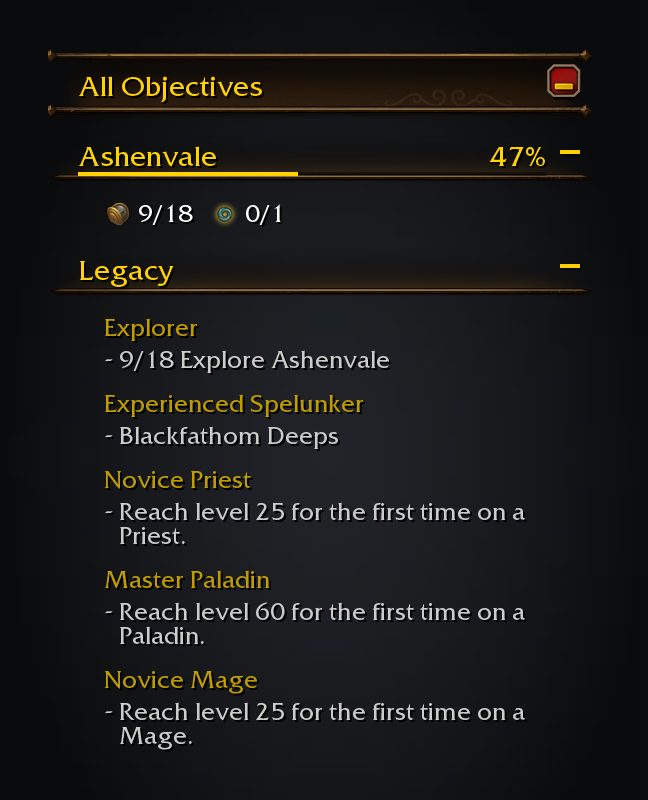
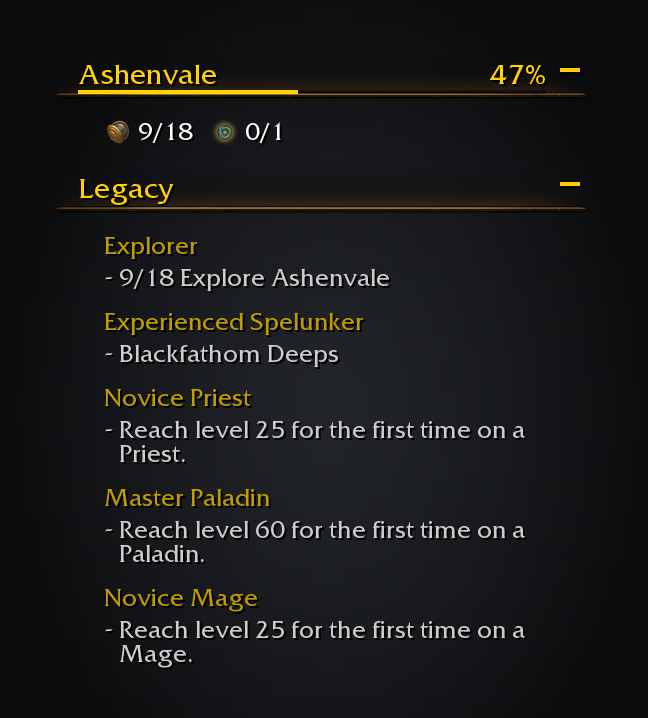
Render the standalone companion tracker in documentation (#62)
Update the tracker screenshot to match the companion frame beside the
native quest tracker. Verified two screenshot renders produce identical
artifacts.

diff --git a/tools/screenshots.py b/tools/screenshots.py
@@ -627,7 +627,7 @@ def render_tracker(ui, data, live):
         TrackerModule("Ashenvale", [TrackerBlock(counts_text(ui, result, 14))]),
         TrackerModule("Legacy", legacy),
     ]
-    canvas, rects = objective_tracker(ui, modules)
+    canvas, rects = objective_tracker(ui, modules, container=False)
     # The zone section's header: the percent left of the minimize button and a 2 px bar under both.
     hx, hy, hw, hh = rects["modules"][0]
     font = FONTS["ObjectiveTrackerHeaderFont"]
